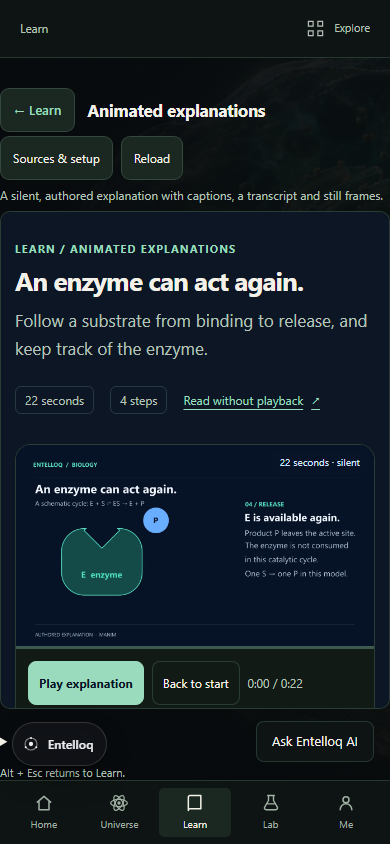
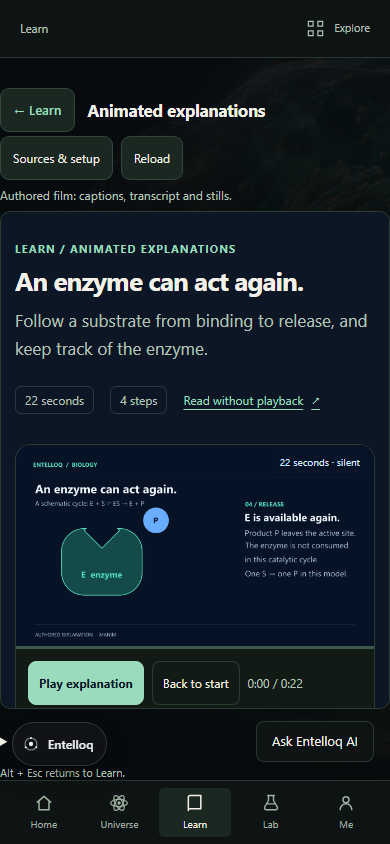
Keep mobile animation hint compact across fallback fonts

Changed region(s): [[0.0308, 0.2156, 0.9846, 0.2464]]

diff --git a/src/learning-tools/host.js b/src/learning-tools/host.js
@@ -15,7 +15,7 @@
     sketches:{title:'Scientific sketchbook',group:'sketches',label:'Draw your explanation',copy:'Sketch a cell, connect a process and keep an editable diagram beside your reasoning.',note:'Sketches are your visual explanations, not computed models. Export an editable scene to keep a separate copy of your work.'},
     animations:{title:'Animated explanations',group:'animations',label:'Watch the mechanism',copy:'Follow an authored enzyme explanation, revisit a step and read its transcript.',note:'These are authored explanations rendered with Manim. They illustrate a mechanism; they are not live simulations or experimental recordings.'}
   };
-  var hints={review:'Your rating schedules the next review; it is not an assessment score.',notebook:'Saved in this browser. Export a copy to keep or share.',search:'Search the curated concepts. Optional semantic search stays off until you enable it.',kinetics:'A new simulation requires the local companion. Check its connection in the tool.',volume:'Real microscopy data, with labelled channels and physical scales.',sketches:'An editable drawing, saved in this browser. Export a copy to keep or share.',animations:'A silent, authored explanation with captions, a transcript and still frames.'};
+  var hints={review:'Your rating schedules the next review; it is not an assessment score.',notebook:'Saved in this browser. Export a copy to keep or share.',search:'Search the curated concepts. Optional semantic search stays off until you enable it.',kinetics:'A new simulation requires the local companion. Check its connection in the tool.',volume:'Real microscopy data, with labelled channels and physical scales.',sketches:'An editable drawing, saved in this browser. Export a copy to keep or share.',animations:'Authored film: captions, transcript and stills.'};
   var sections={solve:['Solve','Build your answer.','Revisit a concept or draw the reasoning behind your answer.'],me:['Me','Keep concepts fresh.','Return to ideas you have met and decide what needs another look.'],learn:['Learn','Look at the idea another way.','Find a concept or follow an explanation one step at a time.'],reason:['Reason','Make your reasoning visible.','Keep the evidence alongside a diagram of your explanation.'],labs:['Labs','Plan, test and record.','Explore a model, keep observations and draw what you predict.'],explore:['Explore','Look a little closer.','Inspect real data and connect its details to the wider idea.']};
   var roots={biology:'#biology-next',learning:'[data-learning-entry]',sketches:'#sketch-app',animations:'#animation-app'};
   var original=document.querySelector('main');if(!original)return;

diff --git a/docs/host-quality/README.md b/docs/host-quality/README.md
@@ -10,7 +10,7 @@ Opening a tool focuses its heading. Sources returns focus to its trigger. Alt+Es
 
 Run `node scripts/check-learning-host-quality.cjs`, then run the same command with `--portable` after building the portable app. The harness uses real tool documents, reduced motion, local-only requests, desktop/tablet/mobile layouts, the actual Appearance control, keyboard focus, complete scientific context, notebook sharing copy and a deliberately delayed/missing source document followed by successful Reload. Portable mode allows only the single HTML document to load over HTTP.
 
-The final run on 26 October 2026 passed eight source checks and seven portable checks, with zero page errors. The harness checks actual image decoding for the poster and all four still alternatives; a ready frame or an image element's dimensions alone do not prove that an image loaded. JSON reports and inspected screenshots in this directory record source and portable runs separately. The source-only recovery check injects a delayed HTTP 404 and verifies successful Reload; portable documents come from the embedded package.
+The final local run on 26 October 2026 passed nine source checks and eight portable checks, with zero page errors. The harness checks actual image decoding for the poster and all four still alternatives; a ready frame or an image element's dimensions alone do not prove that an image loaded. JSON reports and inspected screenshots in this directory record source and portable runs separately. The source-only recovery check injects a delayed HTTP 404 and verifies successful Reload; portable documents come from the embedded package.
 
 | Outer viewport | Tool frame height | Tool top within its Biology section |
 | --- | ---: | ---: |
@@ -19,6 +19,8 @@ The final run on 26 October 2026 passed eight source checks and seven portable c
 | 390 × 844 | 498 px | 153 px |
 
 Both versions have no horizontal overflow at these sizes. Child tools retain their own scrollable content; the host does not rewrite it. Every mobile toolbar button is at least 44 × 44 px, and the host title remains 17 px despite the shell's broader heading rules. The frame ends above both visible floating app controls, and the initial mobile Play button fits entirely within the frame.
+
+The concise animation hint avoids the extra line observed with Linux fonts in CI. A regression case forces Arial fallback fonts in both host and film, retaining the original Play-fit assertion. Locally, the hint occupies one 19.2 px line and Play has 3.77 px of clearance inside the frame in both source and portable modes. The normal mobile screenshot is also inspected; the required CI run remains the Linux verification.
 
 Static host syntax and six-section source-slot checks passed. The initial Windows `check-learning.cjs` run passed 10 of 14 groups; library/background/preview generated-page checks found CRLF/LF representation differences in unchanged files. Read-only comparison confirmed every affected generated output is identical after newline normalization. The integration owner then normalized the checkout and reported all 14 groups passing with bundled Python 3.12. Release-wide checks remain separate from this host harness.
 
